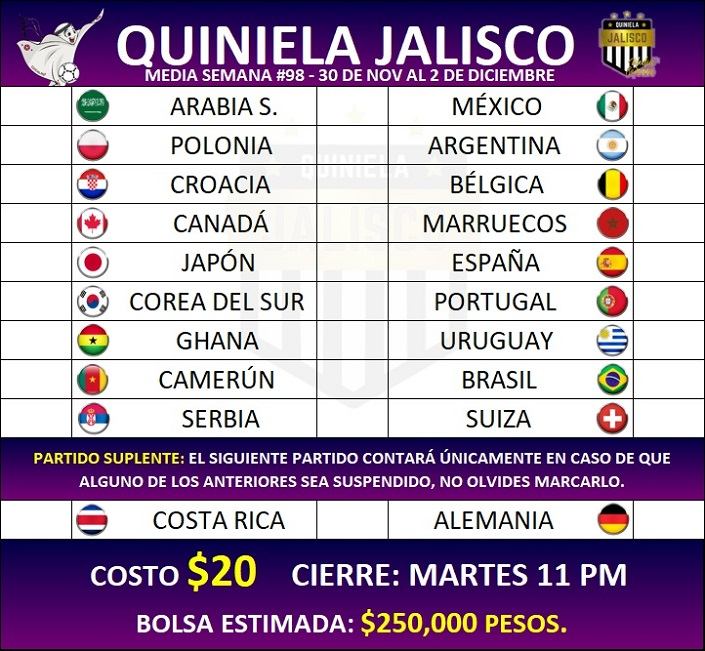
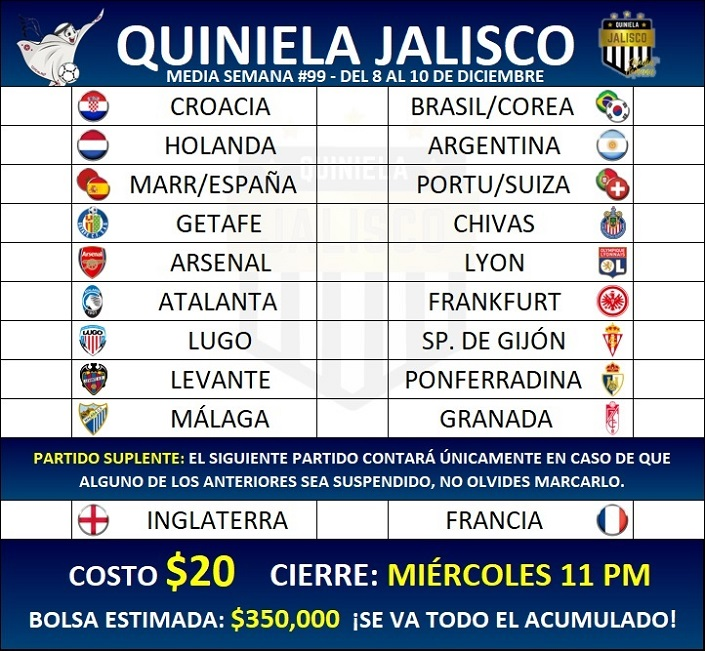
Media Semana #99

diff --git a/MediaSemana/stylesmSusp.css b/MediaSemana/stylesmSusp.css
@@ -93,8 +93,8 @@ body{
     margin-top: 9%;
     border: solid 1px black;
     border-radius: 0 0 14px 14px;
-    background: -webkit-linear-gradient(1turn, rgb(0,2,67)  ,rgb(66,0,97) 80%);
-    background: linear-gradient(1turn, rgb(0,2,67)  ,rgb(66,0,97) 80%);
+    background: -webkit-linear-gradient(1turn, rgb(0,2,67)  ,rgb(0,35,92) 80%);
+    background: linear-gradient(1turn, rgb(0,2,67)  ,rgb(0,35,92) 80%);
 }
 
 .text-lg{
@@ -287,19 +287,20 @@ h6{
 #bolsatxt:before{
     content:'Bolsa estimada:';
     white-space: pre;
-    text-shadow: none;
+    text-shadow: 1px 1px 5px white;
 }
 
 #cantidad:before{
-    content:' $250,000 pesos';
+    content:' $350,000 pesos \A';
     color: yellow;
     white-space:pre;
 }
 
 #sub1:before{
-    content:'' ;
-    color: white;
+    content:'¡Se reparte todo el acumulado!' ;
+    color: black;
     white-space:pre;
+    text-shadow: 1px 1px 5px white;
 }
 
 #sub2:before{
